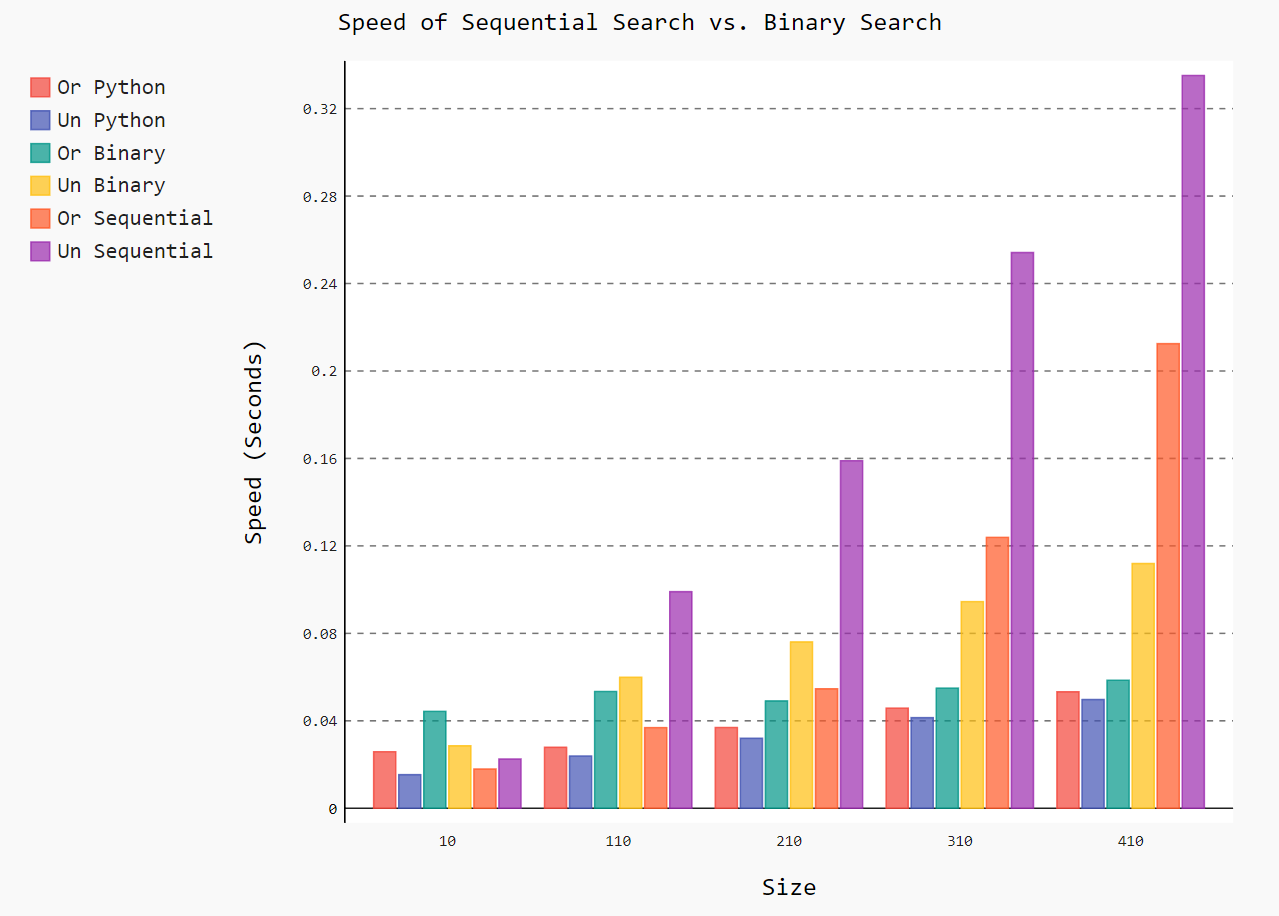
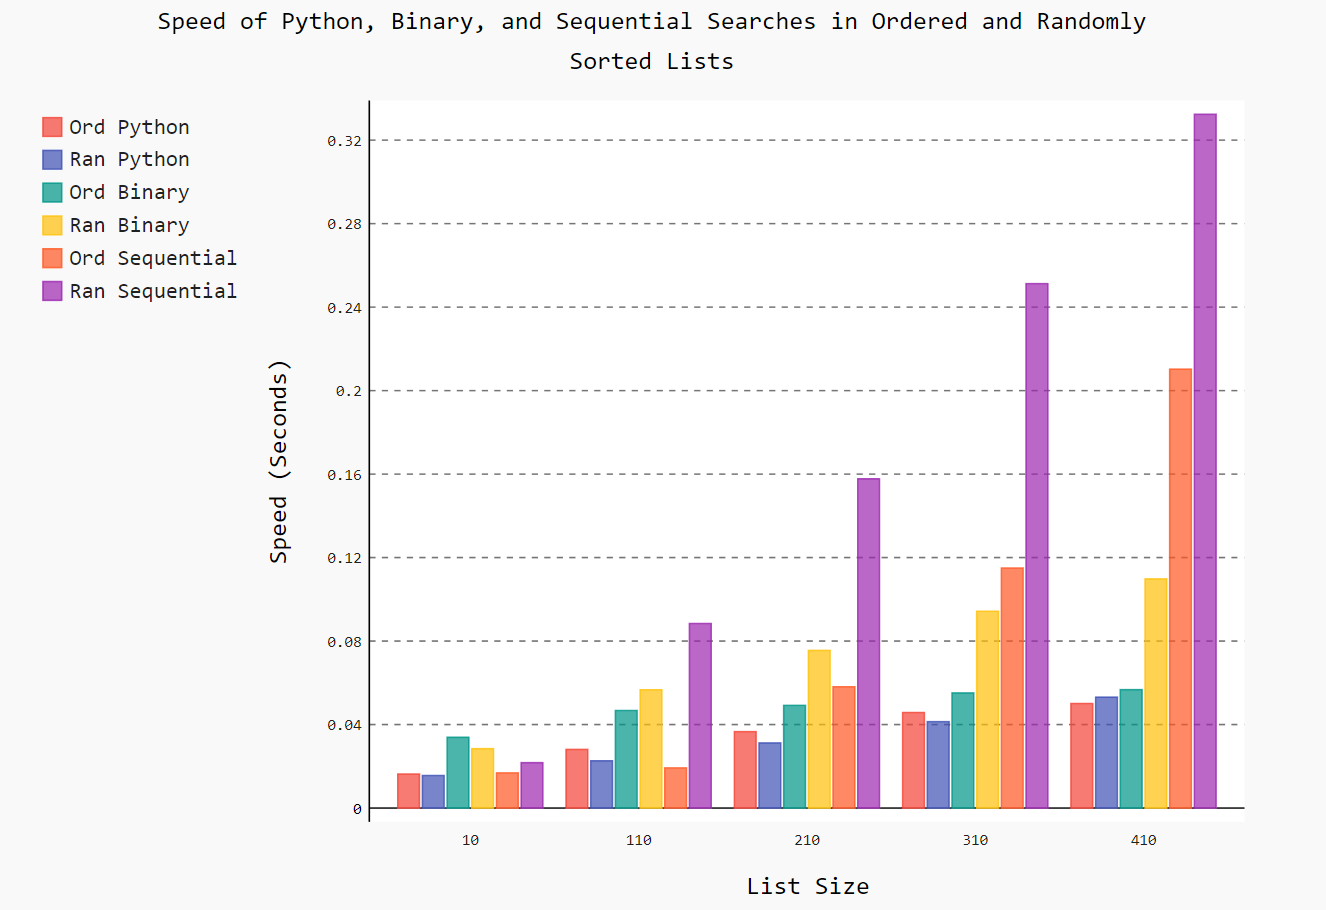
Fixed typo in graph.

diff --git a/timers_search.py b/timers_search.py
@@ -152,21 +152,18 @@ for size in range(10, 411, 100):
           % (size, sequential_speed, recursive_binary_speed, python_speed))
 
 
-# TODO: Split bar graph between ordered and unordered searches.
-# TODO: Python vs. Iterative Bin vs. Recursive Pass Bin vs. Recursive Bin vs. Sequential
-
 print('\nThe above data for the sequential and binary search was graphed as timeit.seq_bin_search.svg')
 bar_chart = pygal.Bar()
-bar_chart.title = "Speed of Sequential Search vs. Binary Search"
+bar_chart.title = "Speed of Python, Binary, and Sequential Searches in Ordered and Randomly Sorted Lists"
 bar_chart.x_labels = ['10', '110', '210', '310', '410']
-bar_chart.x_title = "Size"
+bar_chart.x_title = "List Size"
 bar_chart.y_title = "Speed (Seconds)"
-bar_chart.add('Or Python', ord_python_times)
-bar_chart.add('Un Python', unord_python_times)
-bar_chart.add('Or Binary', ord_recursive_binary_times)
-bar_chart.add('Un Binary', unord_recursive_binary_times)
-bar_chart.add('Or Sequential', ord_sequential_times)
-bar_chart.add('Un Sequential', unord_sequential_times)
+bar_chart.add('Ord Python', ord_python_times)
+bar_chart.add('Ran Python', unord_python_times)
+bar_chart.add('Ord Binary', ord_recursive_binary_times)
+bar_chart.add('Ran Binary', unord_recursive_binary_times)
+bar_chart.add('Ord Sequential', ord_sequential_times)
+bar_chart.add('Ran Sequential', unord_sequential_times)
 bar_chart.render_to_file('graphs/timeit.seq_bin_search.svg')
 
 

diff --git a/README.md b/README.md
@@ -3,18 +3,18 @@ In this project, I write code using data structures and algorithms to solve vari
 
 ## Data Structure Timer Graphs
 
-###### Push and Pop Stack Times
+##### Push and Pop Stack Times
 <p align="center">
 	<img src="supplemental/Stacks.PNG"></img>
 </p>
 
-###### Enqueue and Dequeue Queue Times
+##### Enqueue and Dequeue Queue Times
 
 <p align="center">
 	<img src="supplemental/Queues.PNG"></img>
 </p>
 
-###### Ordered and Unordered Search Times
+##### Python, Binary, and Sequential Search Times
 
 <p align="center">
 	<img src="supplemental/Searches.PNG"></img>
@@ -22,25 +22,25 @@ In this project, I write code using data structures and algorithms to solve vari
 
 ## Recursion Graphics Using Python Turtles
 
-###### Tree
+##### Tree
 
 <p align="center">
 	<img src="supplemental/Tree.PNG"></img>
 </p>
 
-###### Hilbert Maze
+##### Hilbert Maze
 
 <p align="center">
 	<img src="supplemental/Hilbert.PNG"></img>
 </p>
 
-###### Koch Snowflake
+##### Koch Snowflake
 
 <p align="center">
 	<img src="supplemental/Snowflake.PNG"></img>
 </p>
 
-###### Sierpinski's Triangle
+##### Sierpinski's Triangle
 
 <p align="center">
 	<img src="supplemental/Sierpinski.PNG"></img>
